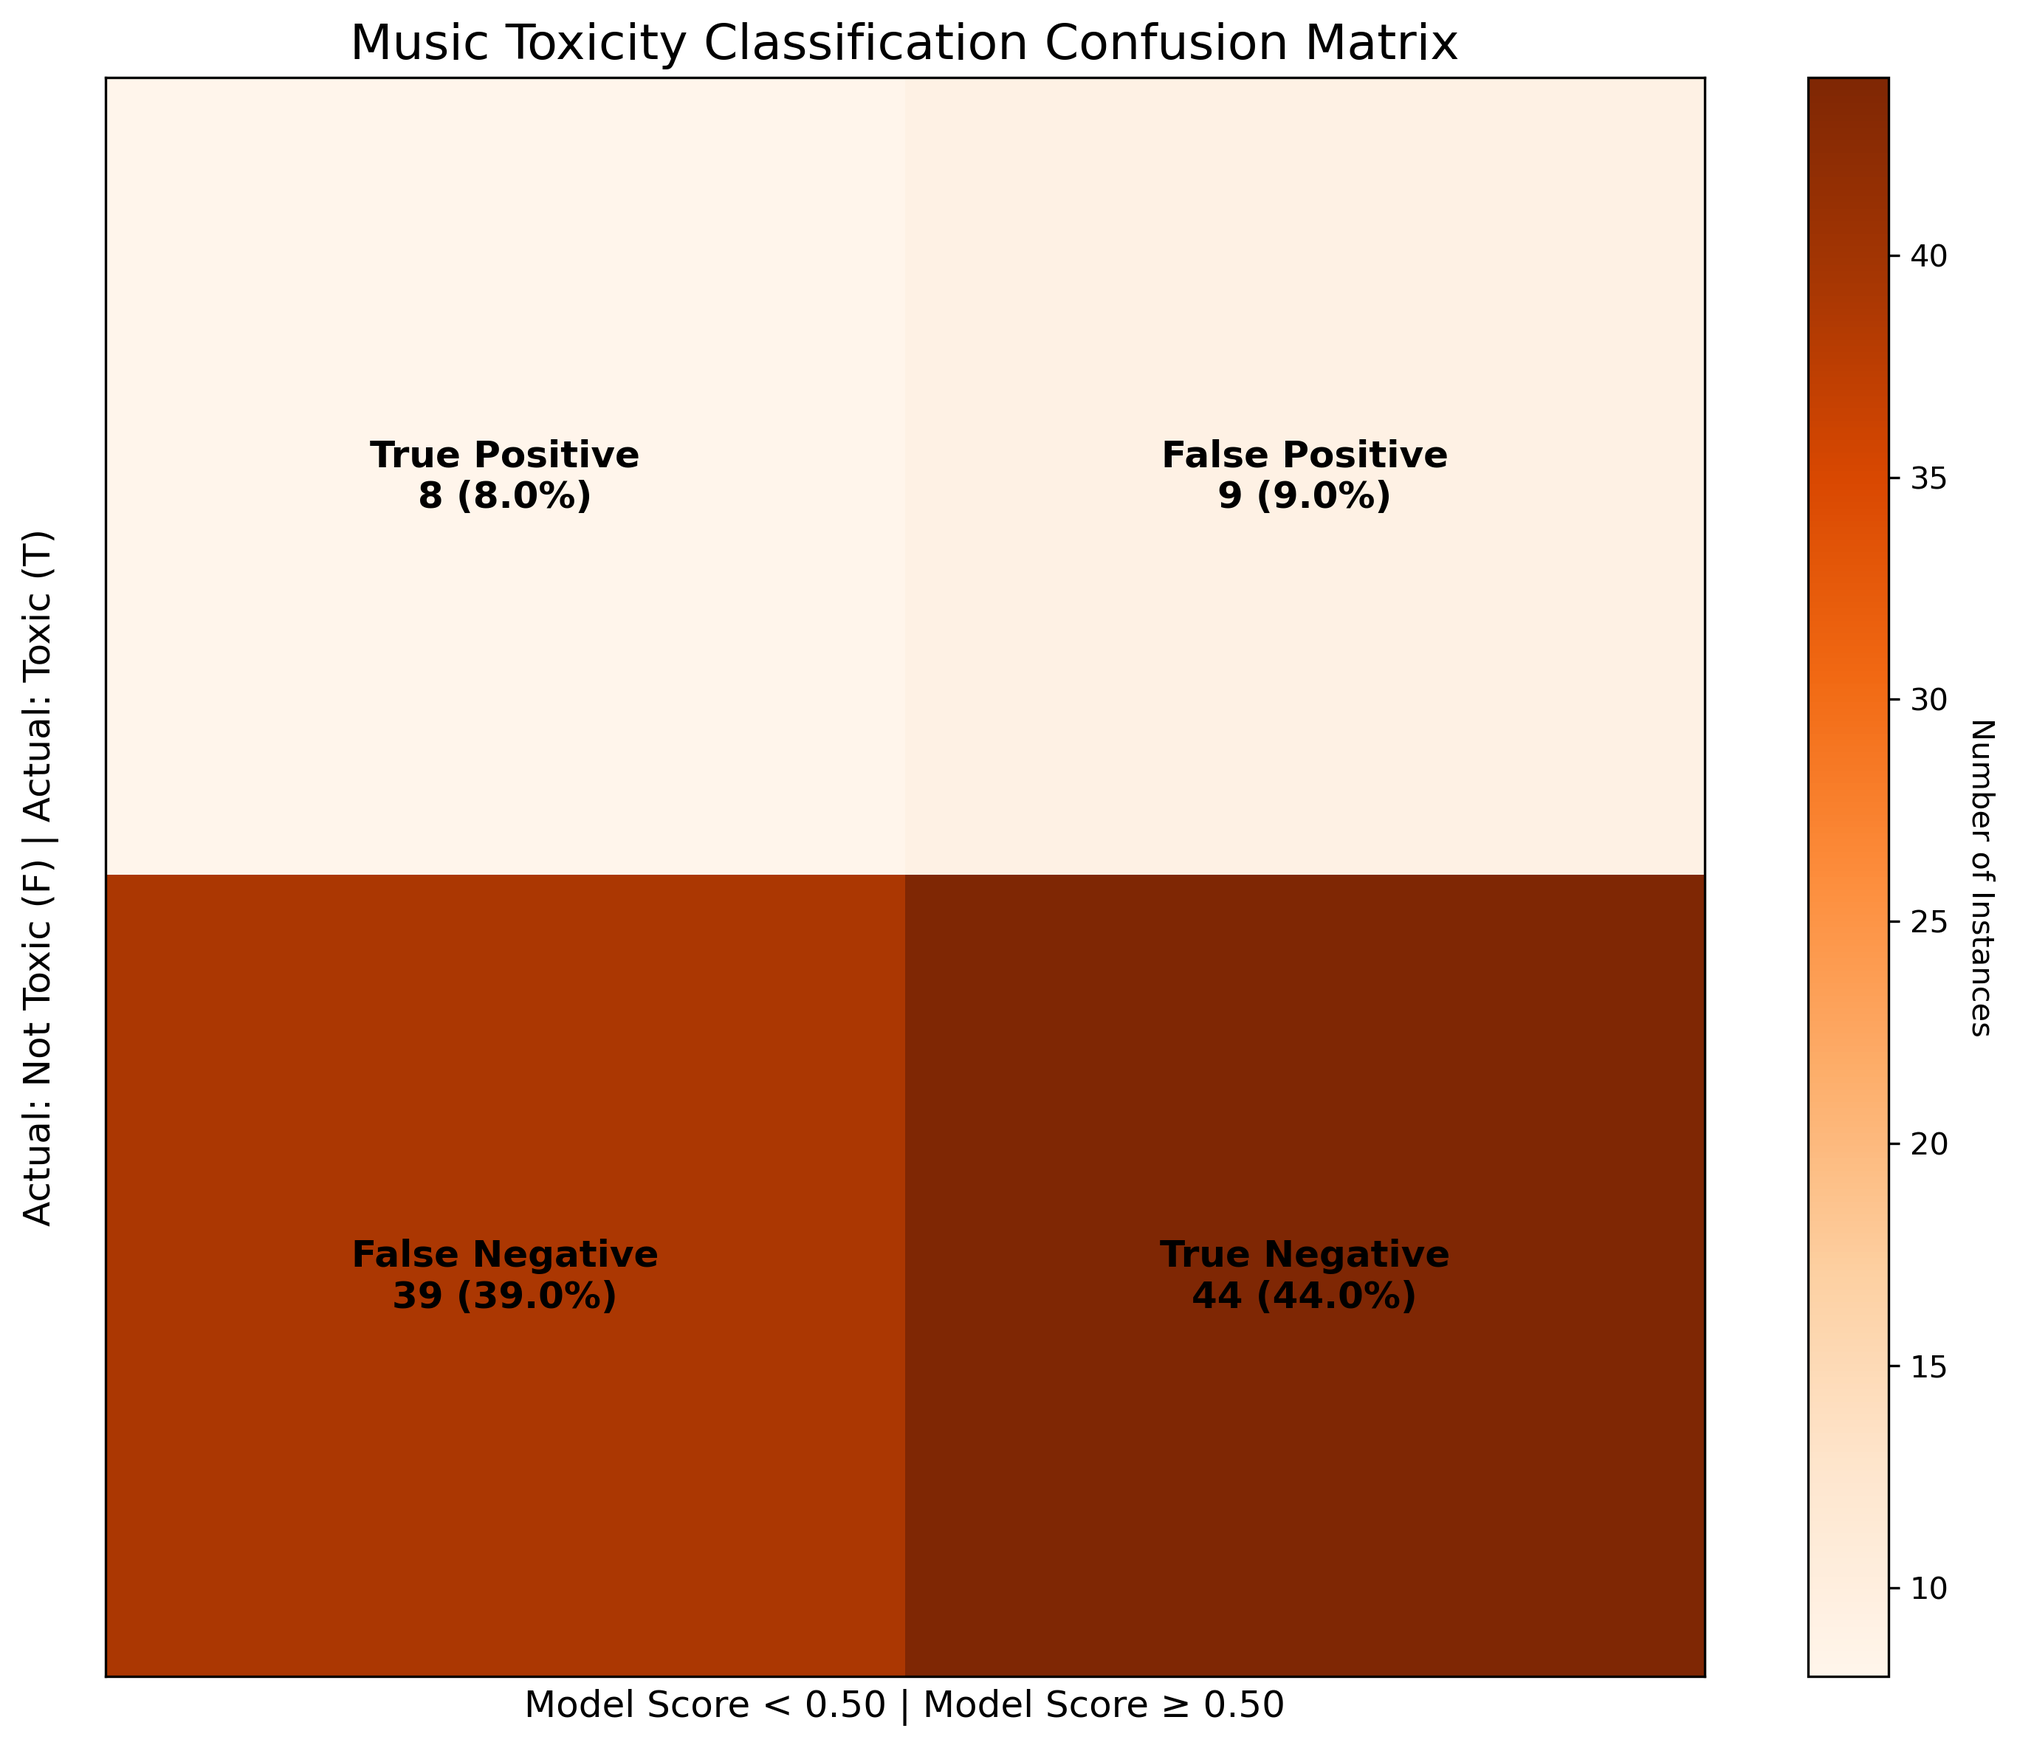
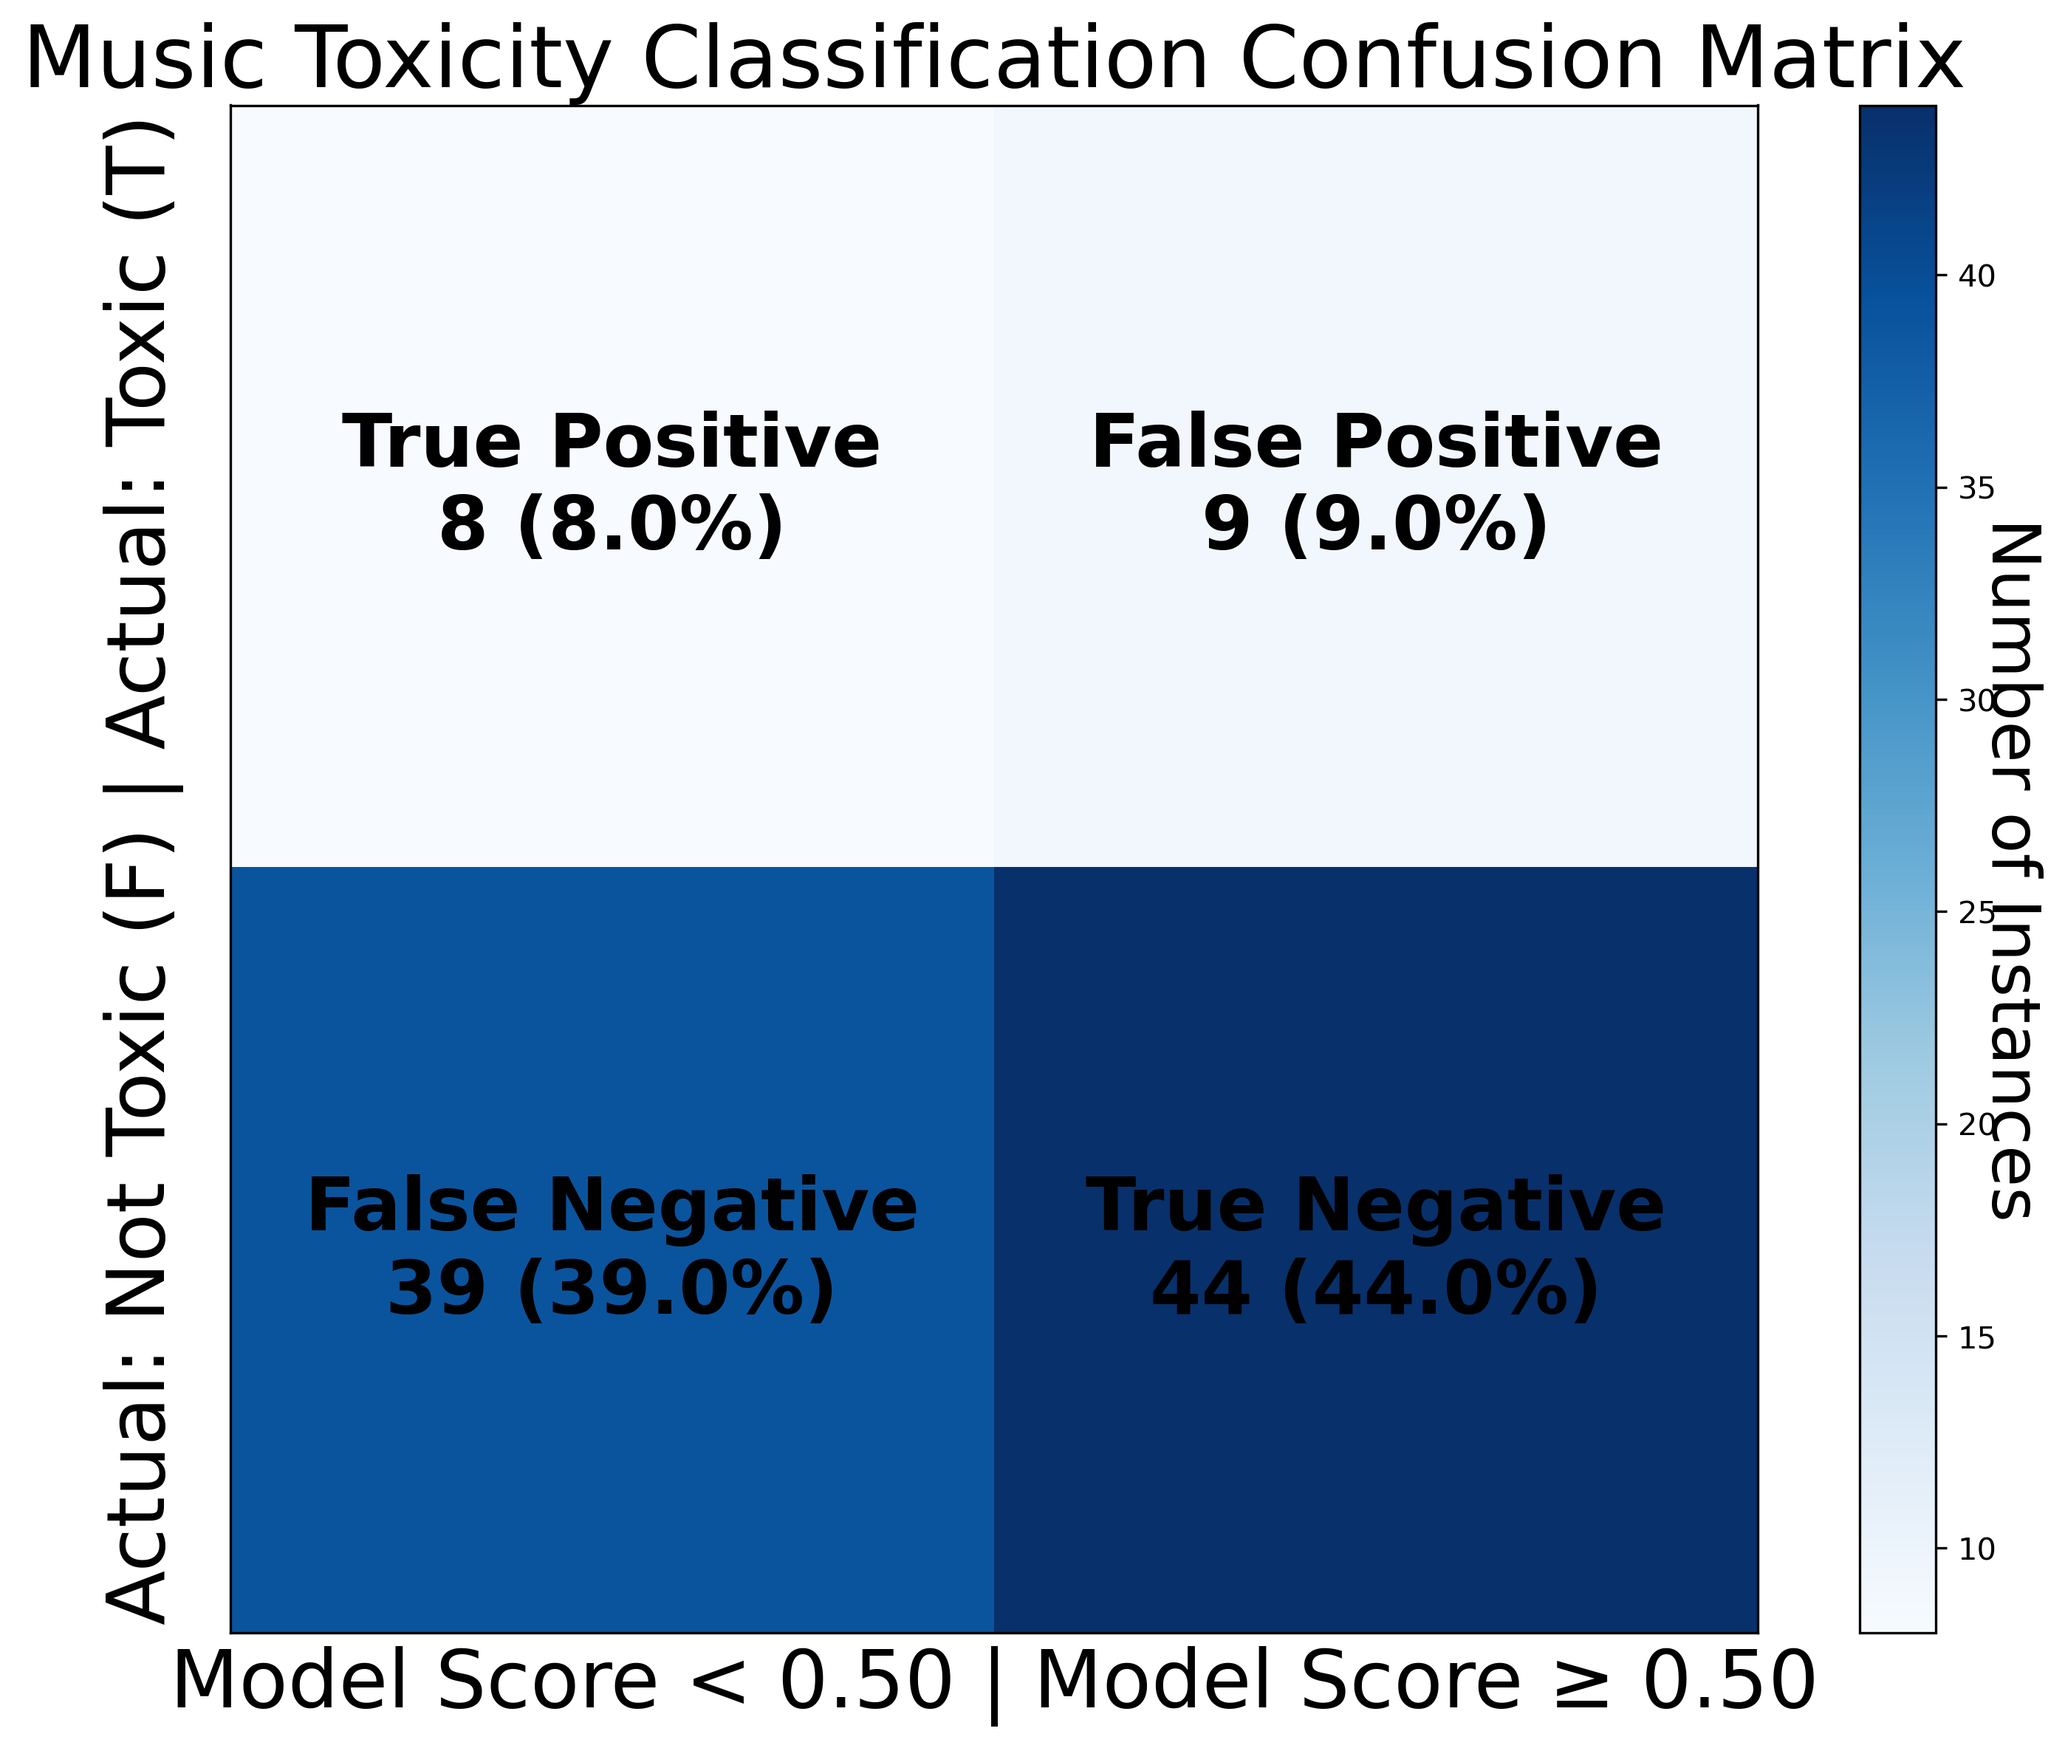
fixed font size

diff --git a/graphs/matrix.py b/graphs/matrix.py
@@ -48,7 +48,7 @@ for i in range(2):
 
 # Create a custom colormap with better contrast
 # Using a custom colormap for better visibility
-custom_cmap = plt.cm.get_cmap('Oranges', 256)  # Change to a more visible colormap
+custom_cmap = plt.cm.get_cmap('Blues', 256)  # Change to a more visible colormap
 
 # Create heatmap (Punnett square)
 im = ax.imshow(punnett_data, cmap=custom_cmap)
@@ -61,22 +61,22 @@ for i in range(2):
         percentage = (count / len(df)) * 100
         text = f"{label}\n{int(count)} ({percentage:.1f}%)"
         ax.text(j, i, text, ha='center', va='center', 
-                fontsize=12, color='black', fontweight='bold')
+                fontsize=24, color='black', fontweight='bold')
 
 # Add axis labels
 ax.set_xticks([])
 ax.set_yticks([])
-ax.set_title('Novel Toxicity Classification Confusion Matrix', fontsize=16)
+ax.set_title('Novel Toxicity Classification Confusion Matrix', fontsize=28)
 
 # Add legend for classifications
 x_label = "Model Score < 0.50 | Model Score ≥ 0.50"
 y_label = "Actual: Not Toxic (F) | Actual: Toxic (T)"
-plt.xlabel(x_label, fontsize=12)
-plt.ylabel(y_label, fontsize=12, rotation=90, labelpad=15)
+plt.xlabel(x_label, fontsize=26)
+plt.ylabel(y_label, fontsize=26, rotation=90, labelpad=15)
 
 # Add colorbar
 cbar = plt.colorbar(im)
-cbar.set_label('Number of Instances', rotation=270, labelpad=15)
+cbar.set_label('Number of Instances', fontsize=22, rotation=270, labelpad=15)
 
 plt.tight_layout()
 plt.savefig('graphs/novel_matrix.png', dpi=300, bbox_inches='tight')
